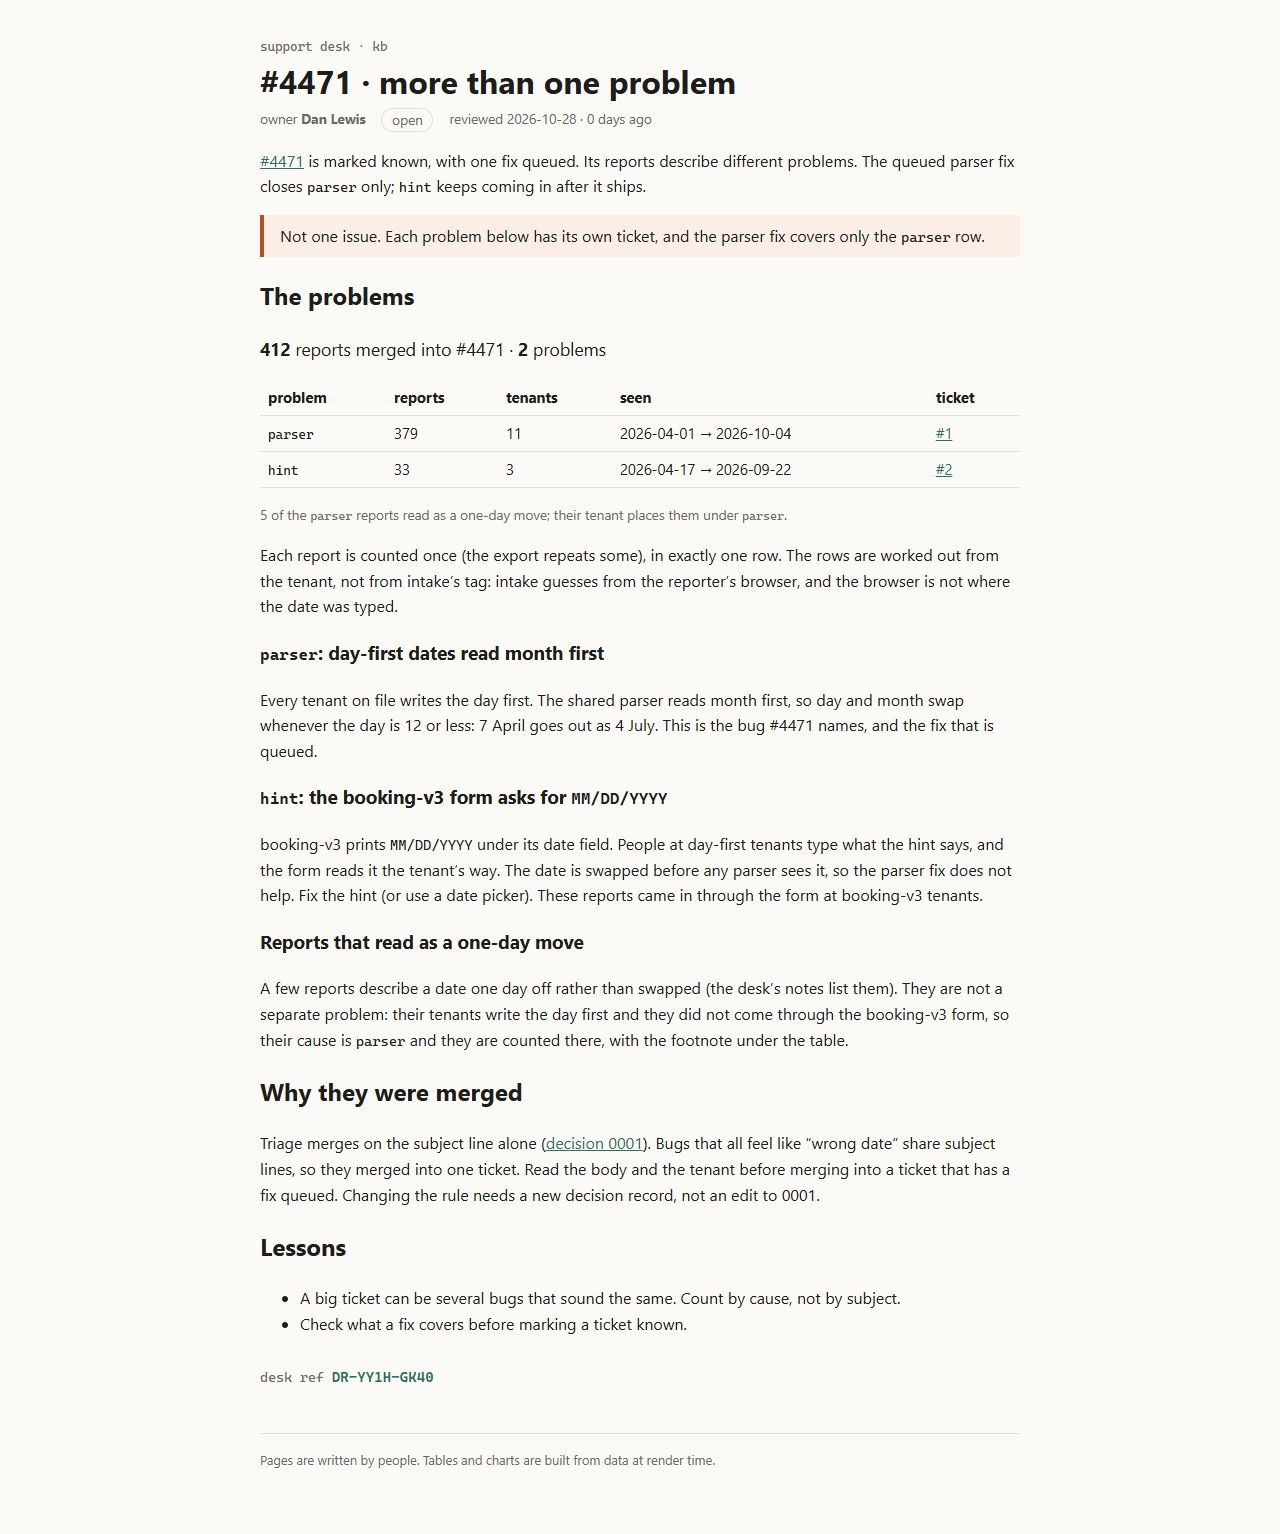
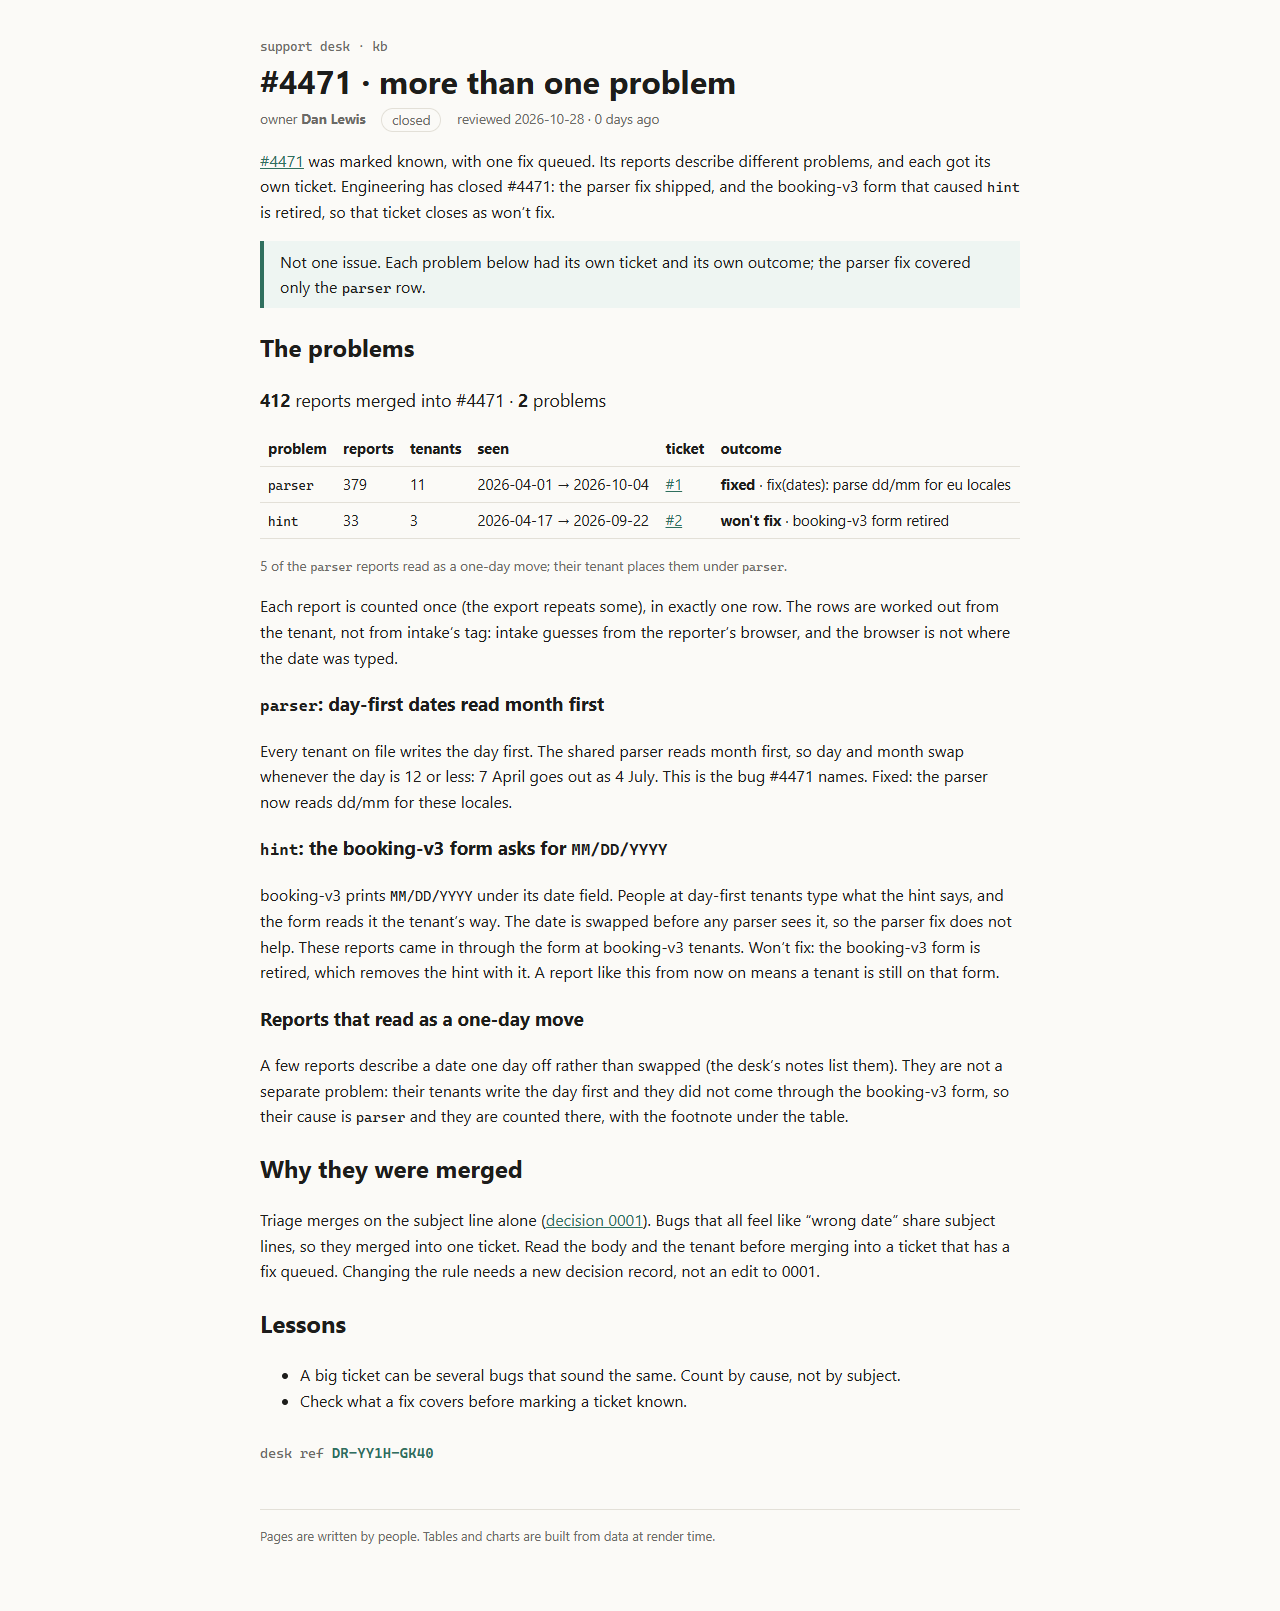
docs(kb): record how #4471's problems closed
Engineering closed #4471 on 5 Oct: parser fixed, hint won't fix because the booking-v3 form is retired. The page now shows each ticket's outcome.

Changed region(s): [[0.1875, 0.0306, 0.7812, 0.9192], [0.2188, 0.9498, 0.5312, 0.9804]]

diff --git a/rendered/kb/incidents/4471-split.html b/rendered/kb/incidents/4471-split.html
@@ -3,19 +3,19 @@
   <head>
     <meta charset="utf-8" />
     <meta name="viewport" content="width=device-width, initial-scale=1" />
-    <link href="../../_app/immutable/entry/start.DBmyo61h.js" rel="modulepreload">
+    <link href="../../_app/immutable/entry/start.DQc66o5K.js" rel="modulepreload">
 		<link href="../../_app/immutable/chunks/DlMqkbta.js" rel="modulepreload">
-		<link href="../../_app/immutable/chunks/XB5jn-Zs.js" rel="modulepreload">
+		<link href="../../_app/immutable/chunks/MUa8qRxQ.js" rel="modulepreload">
 		<link href="../../_app/immutable/chunks/Bf09_hau.js" rel="modulepreload">
-		<link href="../../_app/immutable/entry/app.CtH5x_Jc.js" rel="modulepreload">
+		<link href="../../_app/immutable/entry/app.BSlHL0GN.js" rel="modulepreload">
 		<link href="../../_app/immutable/chunks/E-2nbm7m.js" rel="modulepreload">
 		<link href="../../_app/immutable/chunks/BuA9gQby.js" rel="modulepreload">
 		<link href="../../_app/immutable/chunks/DzpwtG-x.js" rel="modulepreload">
 		<link href="../../_app/immutable/chunks/BbLv6-Rs.js" rel="modulepreload">
 		<link href="../../_app/immutable/nodes/0.DKnddjZH.js" rel="modulepreload">
 		<link href="../../_app/immutable/chunks/C-UtU-xg.js" rel="modulepreload">
-		<link href="../../_app/immutable/nodes/5.DEsiGkd_.js" rel="modulepreload">
-		<link href="../../_app/immutable/chunks/IGoSdTwj.js" rel="modulepreload">
+		<link href="../../_app/immutable/nodes/5.Cs9a4FeW.js" rel="modulepreload">
+		<link href="../../_app/immutable/chunks/yXpxnv96.js" rel="modulepreload">
 		<link href="../../_app/immutable/chunks/6ALyr1k1.js" rel="modulepreload">
 		<link href="../../_app/immutable/chunks/B1a14eto.js" rel="modulepreload">
 		<link href="../../_app/immutable/chunks/iXLSwIXB.js" rel="modulepreload">
@@ -25,15 +25,17 @@
 		<link href="../../_app/immutable/assets/5.DHuNgAyY.css" rel="stylesheet">
   </head>
   <body>
-    <div style="display: contents"><!--[--><!--[0--><!--[--><!--[--><div class="kb svelte-e2jw2j"><header><a class="crumb svelte-e2jw2j" href="/kb">support desk · kb</a> <h1 class="svelte-e2jw2j">#4471 · more than one problem</h1> <p class="meta svelte-e2jw2j"><span>owner <b>Dan Lewis</b></span> <span class="status open svelte-e2jw2j">open</span> <span class="svelte-e2jw2j">reviewed 2026-10-28 · 0 days ago</span></p></header> <!--[-1--><!--]--> <main><p><a href="/kb/incidents/4471">#4471</a> is marked known, with one fix queued. Its reports describe different
-problems. The queued parser fix closes <code>parser</code> only; <code>hint</code> keeps coming in after it ships.</p> <aside class="warn svelte-17bri61"><!---->Not one issue. Each problem below has its own ticket, and the parser fix covers only the <code>parser</code> row.<!----></aside><!----> <h2>The problems</h2> <p class="sum svelte-1op6c6"><strong>412</strong> reports merged into #4471 · <strong>2</strong> problems</p> <table><thead><tr><th>problem</th><th>reports</th><th>tenants</th><th>seen</th><th>ticket</th></tr></thead><tbody><!--[--><tr class="svelte-1op6c6"><td class="svelte-1op6c6"><code>parser</code></td><td class="svelte-1op6c6">379</td><td class="svelte-1op6c6">11</td><td class="svelte-1op6c6">2026-04-01 → 2026-10-04</td><td class="svelte-1op6c6"><!--[0--><a href="https://github.com/daniel-j-lewis/mega-s01e03-support-kb/issues/1">#1</a><!--]--></td></tr><tr class="svelte-1op6c6"><td class="svelte-1op6c6"><code>hint</code></td><td class="svelte-1op6c6">33</td><td class="svelte-1op6c6">3</td><td class="svelte-1op6c6">2026-04-17 → 2026-09-22</td><td class="svelte-1op6c6"><!--[0--><a href="https://github.com/daniel-j-lewis/mega-s01e03-support-kb/issues/2">#2</a><!--]--></td></tr><!--]--></tbody></table> <!--[--><!--[0--><p class="note svelte-1op6c6">5 of the <code>parser</code> reports read as a one-day move; their tenant places them under <code>parser</code>.</p><!--]--><!--[-1--><!--]--><!--]--><!----> <p>Each report is counted once (the export repeats some), in exactly one row. The rows are worked out
+    <div style="display: contents"><!--[--><!--[0--><!--[--><!--[--><div class="kb svelte-e2jw2j"><header><a class="crumb svelte-e2jw2j" href="/kb">support desk · kb</a> <h1 class="svelte-e2jw2j">#4471 · more than one problem</h1> <p class="meta svelte-e2jw2j"><span>owner <b>Dan Lewis</b></span> <span class="status closed svelte-e2jw2j">closed</span> <span class="svelte-e2jw2j">reviewed 2026-10-28 · 0 days ago</span></p></header> <!--[-1--><!--]--> <main><p><a href="/kb/incidents/4471">#4471</a> was marked known, with one fix queued. Its reports describe different
+problems, and each got its own ticket. Engineering has closed #4471: the parser fix shipped, and
+the booking-v3 form that caused <code>hint</code> is retired, so that ticket closes as won’t fix.</p> <aside class="note svelte-17bri61"><!---->Not one issue. Each problem below had its own ticket and its own outcome; the parser fix covered only the <code>parser</code> row.<!----></aside><!----> <h2>The problems</h2> <p class="sum svelte-1op6c6"><strong>412</strong> reports merged into #4471 · <strong>2</strong> problems</p> <table><thead><tr><th>problem</th><th>reports</th><th>tenants</th><th>seen</th><th>ticket</th><th>outcome</th></tr></thead><tbody><!--[--><tr class="svelte-1op6c6"><td class="svelte-1op6c6"><code>parser</code></td><td class="svelte-1op6c6">379</td><td class="svelte-1op6c6">11</td><td class="svelte-1op6c6">2026-04-01 → 2026-10-04</td><td class="svelte-1op6c6"><!--[0--><a href="https://github.com/daniel-j-lewis/mega-s01e03-support-kb/issues/1">#1</a><!--]--></td><td class="svelte-1op6c6"><!--[0--><b>fixed</b> · fix(dates): parse dd/mm for eu locales<!--]--></td></tr><tr class="svelte-1op6c6"><td class="svelte-1op6c6"><code>hint</code></td><td class="svelte-1op6c6">33</td><td class="svelte-1op6c6">3</td><td class="svelte-1op6c6">2026-04-17 → 2026-09-22</td><td class="svelte-1op6c6"><!--[0--><a href="https://github.com/daniel-j-lewis/mega-s01e03-support-kb/issues/2">#2</a><!--]--></td><td class="svelte-1op6c6"><!--[0--><b>won't fix</b> · booking-v3 form retired<!--]--></td></tr><!--]--></tbody></table> <!--[--><!--[0--><p class="note svelte-1op6c6">5 of the <code>parser</code> reports read as a one-day move; their tenant places them under <code>parser</code>.</p><!--]--><!--[-1--><!--]--><!--]--><!----> <p>Each report is counted once (the export repeats some), in exactly one row. The rows are worked out
 from the tenant, not from intake’s tag: intake guesses from the reporter’s browser, and the browser
 is not where the date was typed.</p> <h3><code>parser</code>: day-first dates read month first</h3> <p>Every tenant on file writes the day first. The shared parser reads month first, so day and month
-swap whenever the day is 12 or less: 7 April goes out as 4 July. This is the bug #4471 names, and
-the fix that is queued.</p> <h3><code>hint</code>: the booking-v3 form asks for <code>MM/DD/YYYY</code></h3> <p>booking-v3 prints <code>MM/DD/YYYY</code> under its date field. People at day-first tenants type what the hint
+swap whenever the day is 12 or less: 7 April goes out as 4 July. This is the bug #4471 names.
+Fixed: the parser now reads dd/mm for these locales.</p> <h3><code>hint</code>: the booking-v3 form asks for <code>MM/DD/YYYY</code></h3> <p>booking-v3 prints <code>MM/DD/YYYY</code> under its date field. People at day-first tenants type what the hint
 says, and the form reads it the tenant’s way. The date is swapped before any parser sees it, so the
-parser fix does not help. Fix the hint (or use a date picker). These reports came in through the
-form at booking-v3 tenants.</p> <h3>Reports that read as a one-day move</h3> <p>A few reports describe a date one day off rather than swapped (the desk’s notes list them). They
+parser fix does not help. These reports came in through the form at booking-v3 tenants. Won’t fix:
+the booking-v3 form is retired, which removes the hint with it. A report like this from now on means
+a tenant is still on that form.</p> <h3>Reports that read as a one-day move</h3> <p>A few reports describe a date one day off rather than swapped (the desk’s notes list them). They
 are not a separate problem: their tenants write the day first and they did not come through the
 booking-v3 form, so their cause is <code>parser</code> and they are counted there, with the footnote under the
 table.</p> <h2>Why they were merged</h2> <p>Triage merges on the subject line alone (<a href="/kb/decisions/0001-dedupe-by-subject">decision 0001</a>).
@@ -43,15 +45,15 @@ needs a new decision record, not an edit to 0001.</p> <h2>Lessons</h2> <ul><li>A
 			
 			<script>
 				{
-					__sveltekit_5weeib = {
+					__sveltekit_4ywmag = {
 						base: new URL("../..", location).pathname.slice(0, -1)
 					};
 
 					const element = document.currentScript.parentElement;
 
 					Promise.all([
-						import("../../_app/immutable/entry/start.DBmyo61h.js"),
-						import("../../_app/immutable/entry/app.CtH5x_Jc.js")
+						import("../../_app/immutable/entry/start.DQc66o5K.js"),
+						import("../../_app/immutable/entry/app.BSlHL0GN.js")
 					]).then(([kit, app]) => {
 						kit.start(app, element, {
 							node_ids: [0, 5],

diff --git a/src/lib/kb/ProblemTable.svelte b/src/lib/kb/ProblemTable.svelte
@@ -10,7 +10,8 @@
 
   const merged = $derived(uniqueById(reports as Report[]).filter((r) => r.mergedInto === ticket));
   const groups = $derived(groupByCause(merged, tenantOf));
-  const issue = (c: CauseGroup['cause']) => (split.issues as Partial<Record<CauseGroup['cause'], number>>)[c];
+  type Ticket = { number: number; outcome: string; by: string };
+  const issue = (c: CauseGroup['cause']) => (split.issues as Partial<Record<CauseGroup['cause'], Ticket>>)[c];
 </script>
 
 <p class="sum">
@@ -21,17 +22,18 @@
 
 <table>
   <thead>
-    <tr><th>problem</th><th>reports</th><th>tenants</th><th>seen</th><th>ticket</th></tr>
+    <tr><th>problem</th><th>reports</th><th>tenants</th><th>seen</th><th>ticket</th><th>outcome</th></tr>
   </thead>
   <tbody>
     {#each groups as g (g.cause)}
-      {@const n = issue(g.cause)}
-      <tr class:open={!n}>
+      {@const t = issue(g.cause)}
+      <tr class:open={!t}>
         <td><code>{g.cause}</code></td>
         <td>{g.reports.length}</td>
         <td>{g.tenants}</td>
         <td>{g.firstSeen} → {g.lastSeen}</td>
-        <td>{#if n}<a href="{split.repo}/issues/{n}">#{n}</a>{:else}none yet{/if}</td>
+        <td>{#if t}<a href="{split.repo}/issues/{t.number}">#{t.number}</a>{:else}none yet{/if}</td>
+        <td>{#if t}<b>{t.outcome}</b> · {t.by}{:else}open{/if}</td>
       </tr>
     {/each}
   </tbody>
